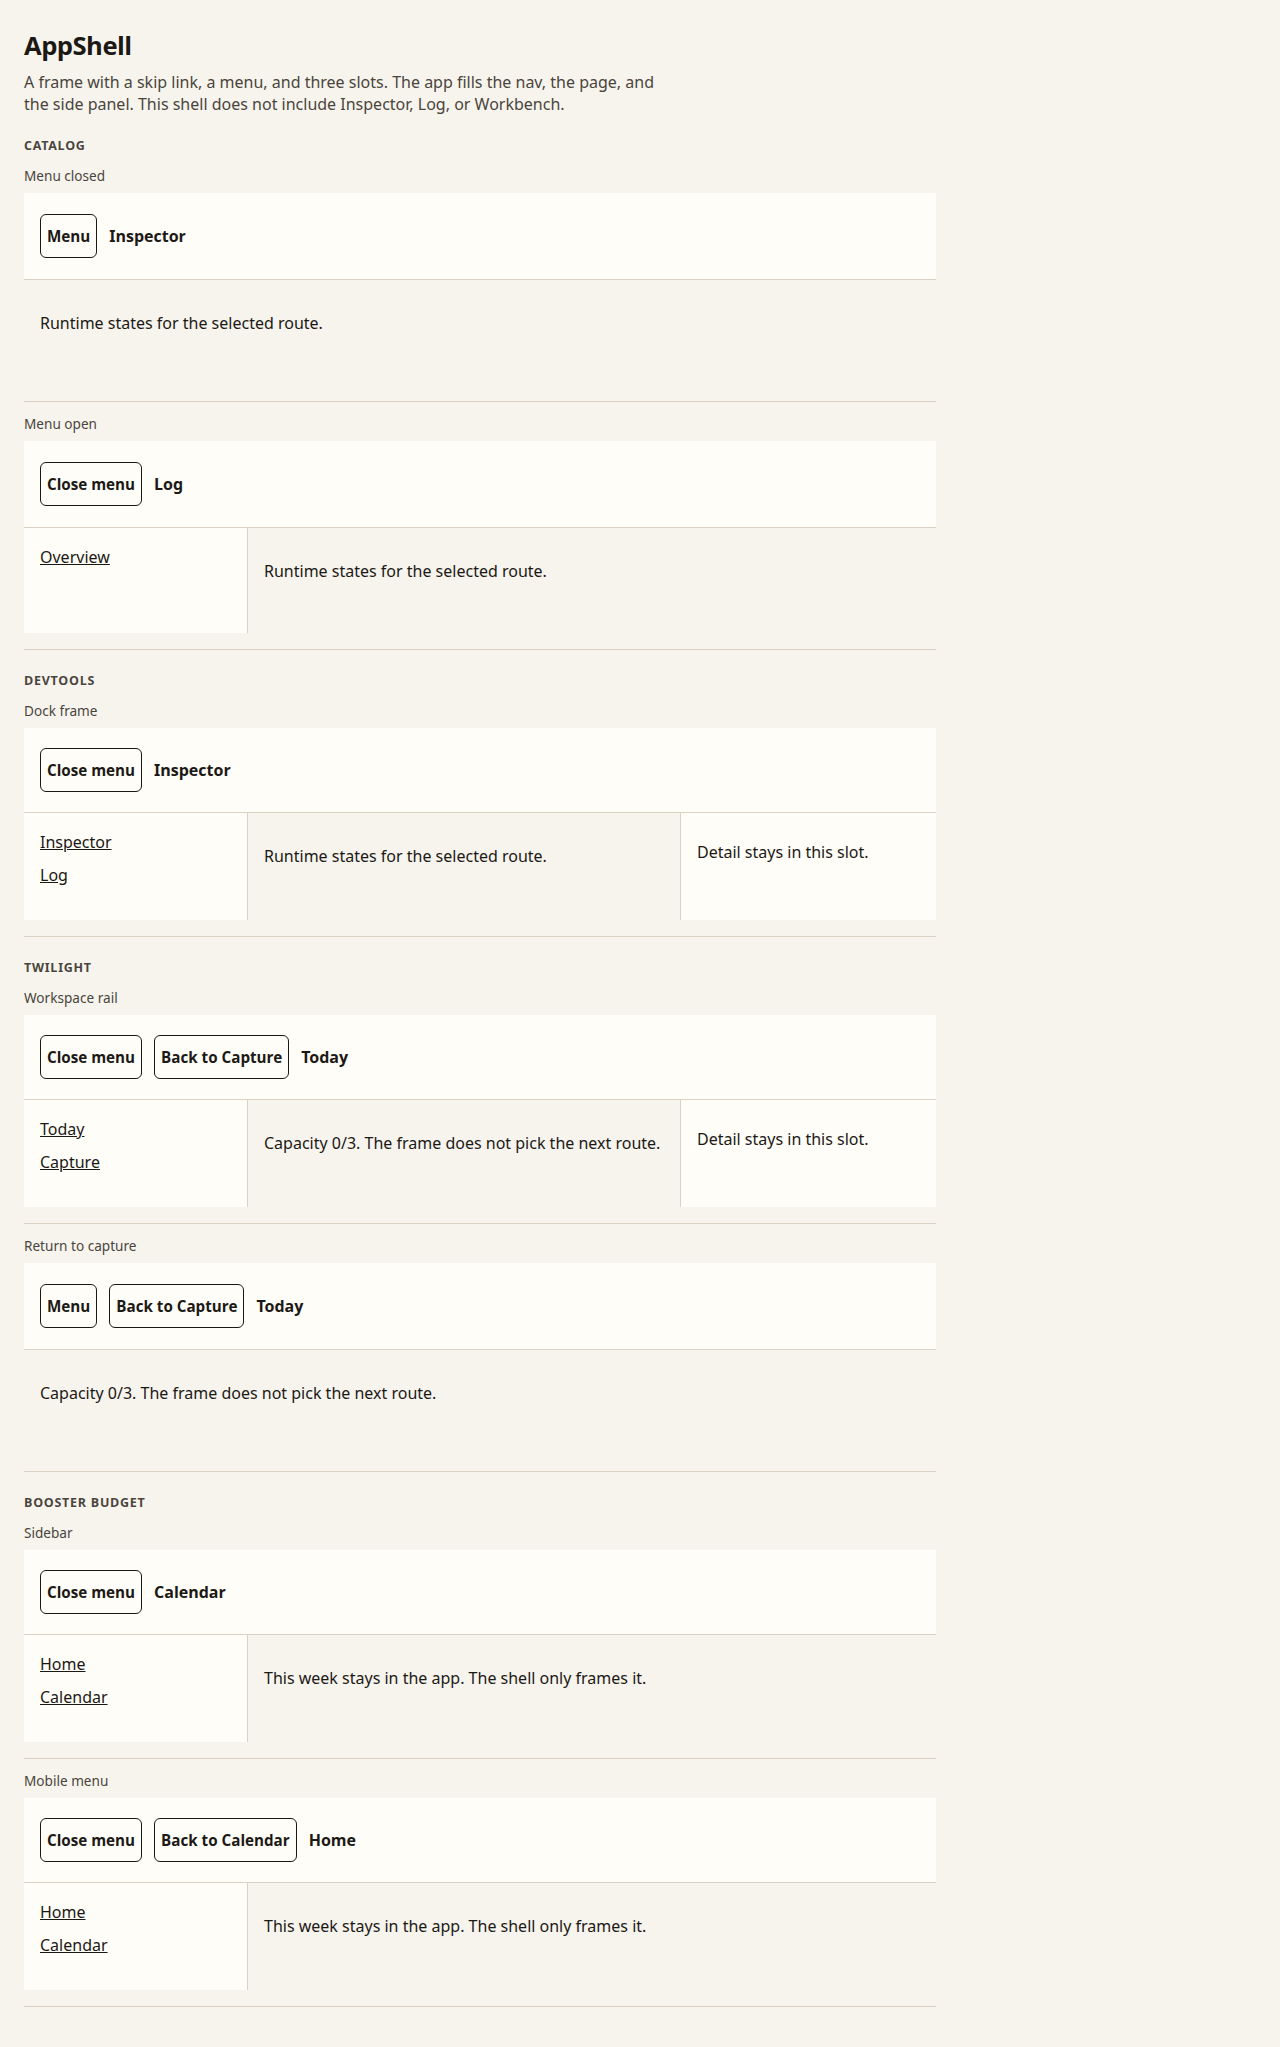
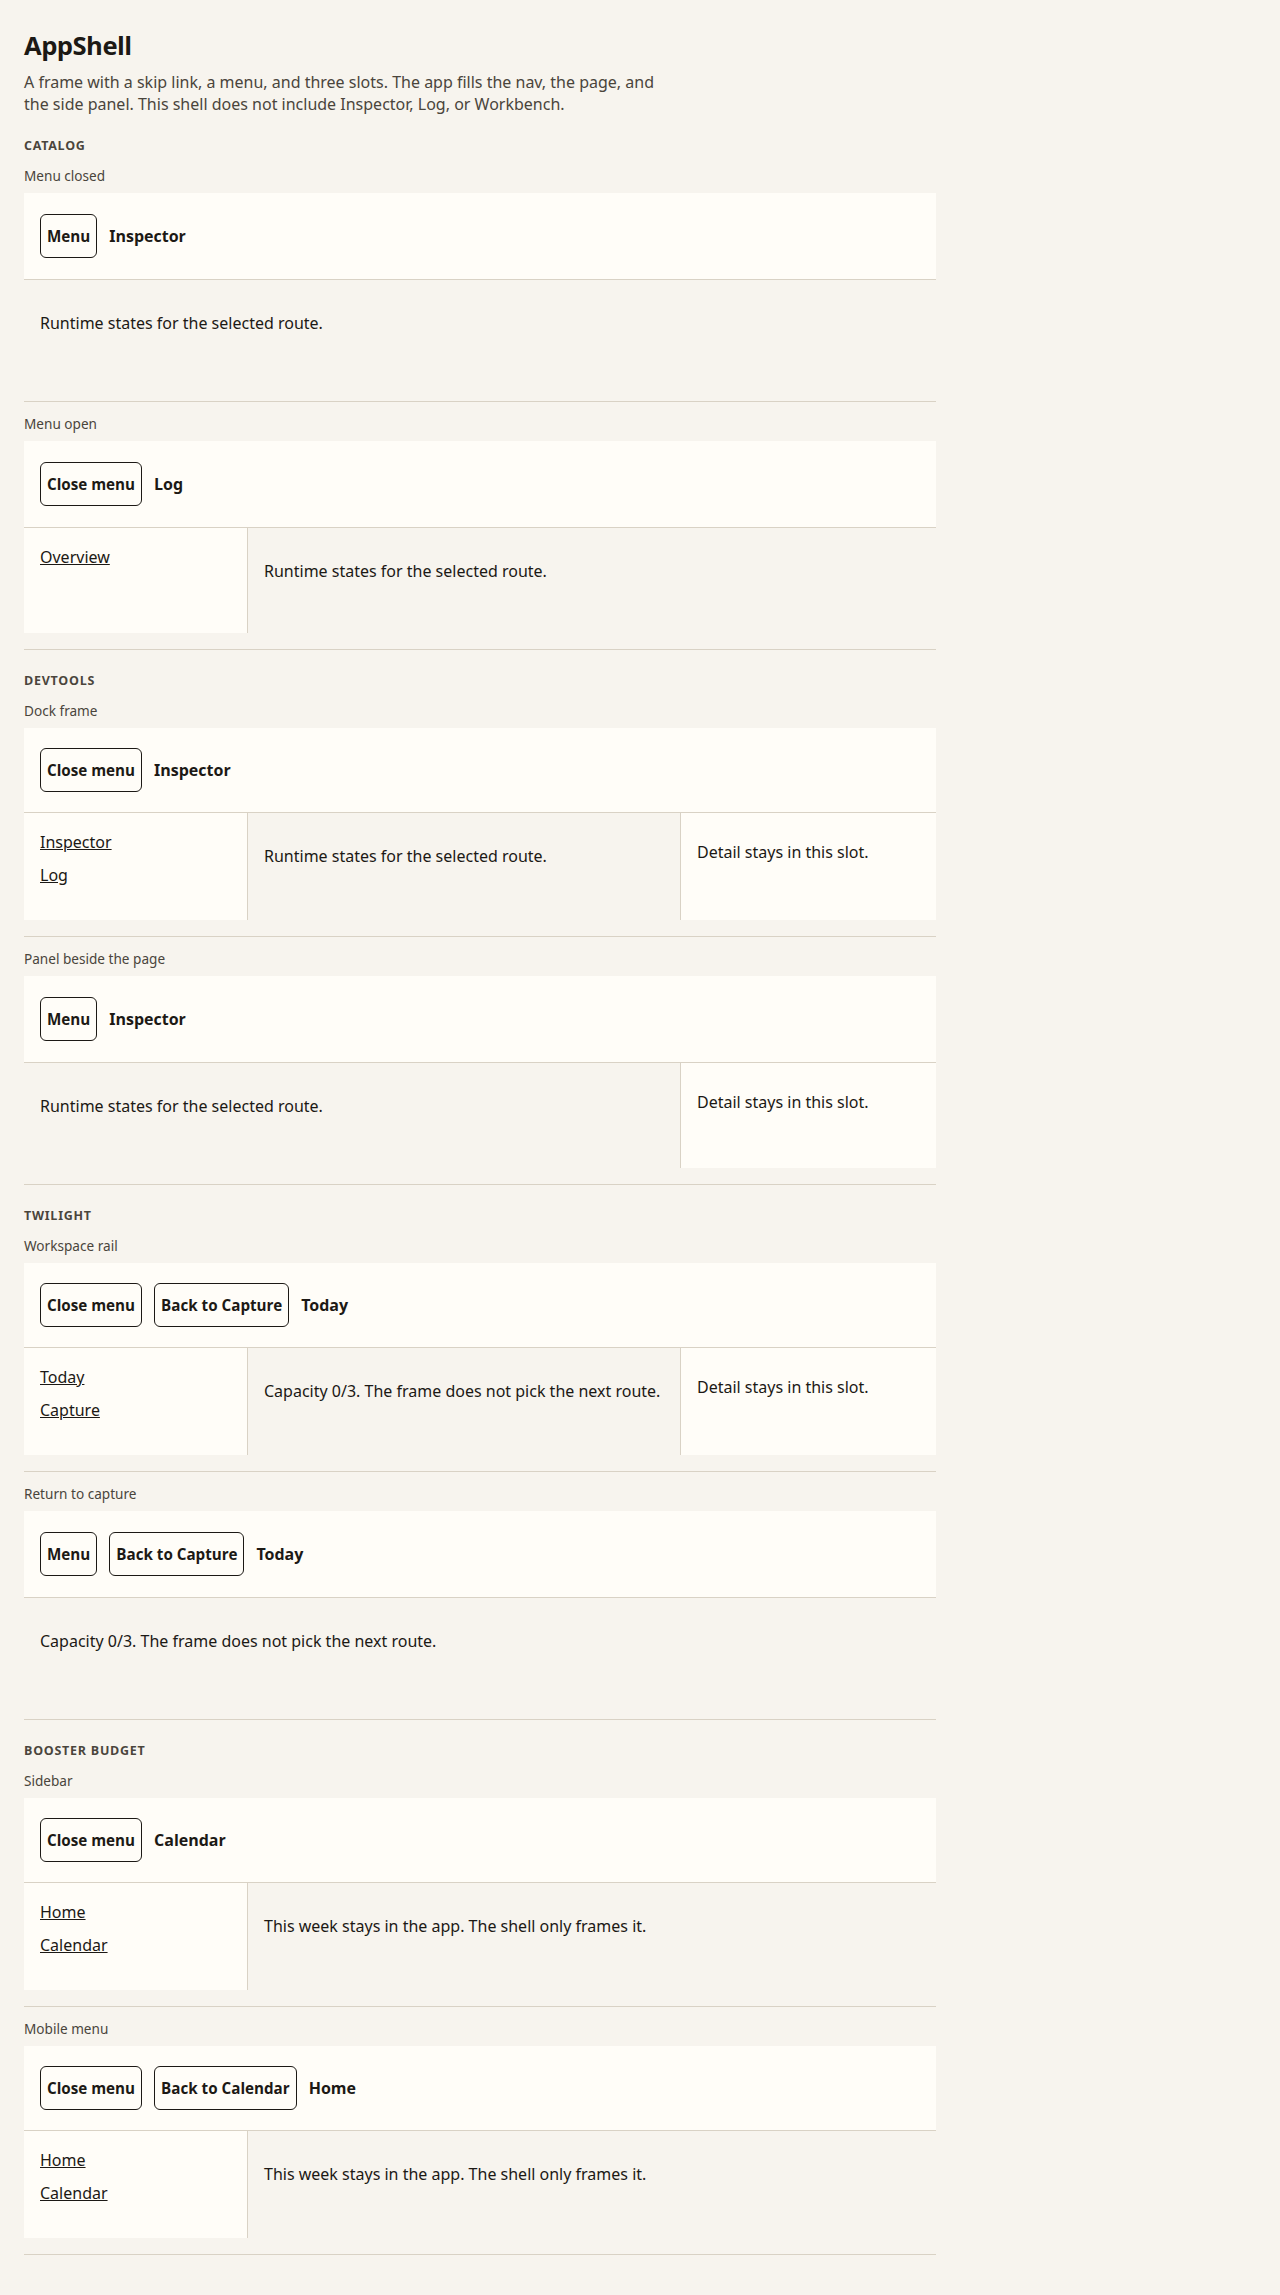
fix(components): tell the host when AppShell asks to return
Back emits return-request and leaves the route to the host. A desktop
side panel stays beside the page when the menu is closed. The exported
commands projection takes igniteCore's { source } facade.

diff --git a/packages/ignite-components/src/app-shell/app-shell.source.ts b/packages/ignite-components/src/app-shell/app-shell.source.ts
@@ -1,4 +1,4 @@
-import { assign, setup } from "xstate";
+import { assign, emit, setup } from "xstate";
 
 export type AppShellInput = {
 	activeRoute?: string;
@@ -24,6 +24,8 @@ export type AppShellEvent =
 	| { type: "REQUEST_RETURN" }
 	| { type: "SET_PANEL"; open: boolean };
 
+export type AppShellEmitted = { type: "return-request"; returnTo: string };
+
 export function normalizeReturnTo(value: string | null): string | null {
 	if (value === null || value.length === 0) return null;
 	return value;
@@ -37,6 +39,7 @@ export const appShellMachine = setup({
 	types: {
 		context: {} as AppShellContext,
 		events: {} as AppShellEvent,
+		emitted: {} as AppShellEmitted,
 		input: {} as AppShellInput,
 	},
 	actions: {
@@ -54,6 +57,10 @@ export const appShellMachine = setup({
 		requestReturn: assign({
 			returnRequested: () => true,
 		}),
+		announceReturn: emit(({ context }) => ({
+			type: "return-request" as const,
+			returnTo: context.returnTo ?? "",
+		})),
 		applyPanel: assign({
 			panelOpen: ({ event }) =>
 				event.type === "SET_PANEL" ? event.open : false,
@@ -92,7 +99,7 @@ export const appShellMachine = setup({
 				OPEN_MENU: "open",
 				REQUEST_RETURN: {
 					guard: "hasReturn",
-					actions: "requestReturn",
+					actions: ["requestReturn", "announceReturn"],
 				},
 			},
 		},
@@ -101,7 +108,7 @@ export const appShellMachine = setup({
 				CLOSE_MENU: "closed",
 				REQUEST_RETURN: {
 					guard: "hasReturn",
-					actions: "requestReturn",
+					actions: ["requestReturn", "announceReturn"],
 				},
 			},
 		},

diff --git a/packages/ignite-components/src/app-shell/app-shell.dom.test.ts b/packages/ignite-components/src/app-shell/app-shell.dom.test.ts
@@ -81,6 +81,28 @@ describe("AppShell DOM", () => {
 			false,
 		);
 		element.setReturnTo("Capture");
-		expect(view.getByRole("button", { name: "Back to Capture" })).toBeTruthy();
+		const requests: string[] = [];
+		element.addEventListener("return-request", (event) => {
+			requests.push(
+				(event as CustomEvent<{ returnTo: string }>).detail.returnTo,
+			);
+		});
+		view.getByRole("button", { name: "Back to Capture" }).click();
+		expect(requests).toEqual(["Capture"]);
+		expect(view.getByText("Today")).toBeTruthy();
+	});
+
+	it("keeps a desktop panel column when the menu is closed", () => {
+		const { element } = mount("Inspector");
+		element.setPanel("true");
+		const style = element.shadowRoot?.querySelector("style")?.textContent ?? "";
+		expect(style).toContain('.shell[data-panel="open"]');
+		expect(style).toContain("minmax(0, 1fr) 16rem");
+		expect(
+			element.shadowRoot?.querySelector(".shell")?.getAttribute("data-menu"),
+		).toBe("closed");
+		expect(
+			element.shadowRoot?.querySelector(".shell")?.getAttribute("data-panel"),
+		).toBe("open");
 	});
 });

diff --git a/packages/ignite-components/src/app-shell/app-shell.core.ts b/packages/ignite-components/src/app-shell/app-shell.core.ts
@@ -110,7 +110,8 @@ export function appShellCommands(source: {
 
 export const appShellProjection = {
 	states: projectAppShell,
-	commands: appShellCommands,
+	commands: ({ source }: { source: Parameters<typeof appShellCommands>[0] }) =>
+		appShellCommands(source),
 };
 
 export function createAppShellCore() {
@@ -118,5 +119,8 @@ export function createAppShellCore() {
 		source: appShellMachine,
 		states: projectAppShell,
 		commands: ({ source }) => appShellCommands(source),
+		events: (event) => ({
+			"return-request": event<{ returnTo: string }>(),
+		}),
 	});
 }

diff --git a/packages/ignite-components/src/app-shell/app-shell.gallery.ts b/packages/ignite-components/src/app-shell/app-shell.gallery.ts
@@ -80,6 +80,18 @@ export const appShellGallery: readonly GalleryFixture<AppShellFixtureInput>[] =
 			},
 		},
 		{
+			id: "panel-beside",
+			state: "closed",
+			title: "Panel beside the page",
+			app: "DevTools",
+			input: {
+				activeRoute: "Inspector",
+				menuOpen: false,
+				returnTo: null,
+				panelOpen: true,
+			},
+		},
+		{
 			id: "booster-mobile",
 			state: "open",
 			title: "Mobile menu",

diff --git a/packages/ignite-components/src/app-shell/app-shell.view.tsx b/packages/ignite-components/src/app-shell/app-shell.view.tsx
@@ -51,6 +51,9 @@ const styles = `${catalogHostStyles()}
 .main { padding: 1rem; }
 .main:focus { outline: 2px solid var(--catalog-fg); outline-offset: 2px; }
 @media (min-width: 768px) {
+  .shell[data-panel="open"] {
+    grid-template-columns: minmax(0, 1fr) 16rem;
+  }
   .shell[data-menu="open"] {
     grid-template-columns: 14rem minmax(0, 1fr);
   }

diff --git a/packages/ignite-components/src/app-shell/app-shell.contract.ts b/packages/ignite-components/src/app-shell/app-shell.contract.ts
@@ -66,7 +66,7 @@ export const appShellContract = {
 		{ name: "setReturnTo", kind: "configuration" },
 		{ name: "setPanel", kind: "configuration", attribute: "panel" },
 	],
-	events: [],
+	events: ["return-request"],
 	slots: ["nav", "main", "panel"],
 	tokens: [...catalogTokens],
 	layers: {
